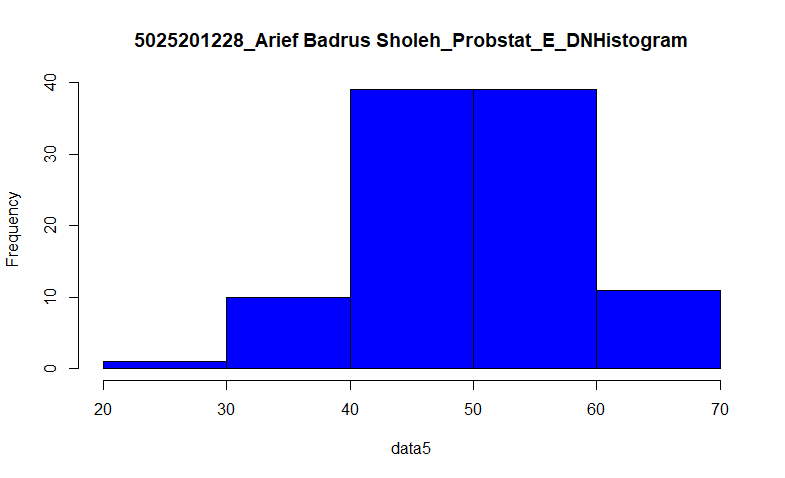
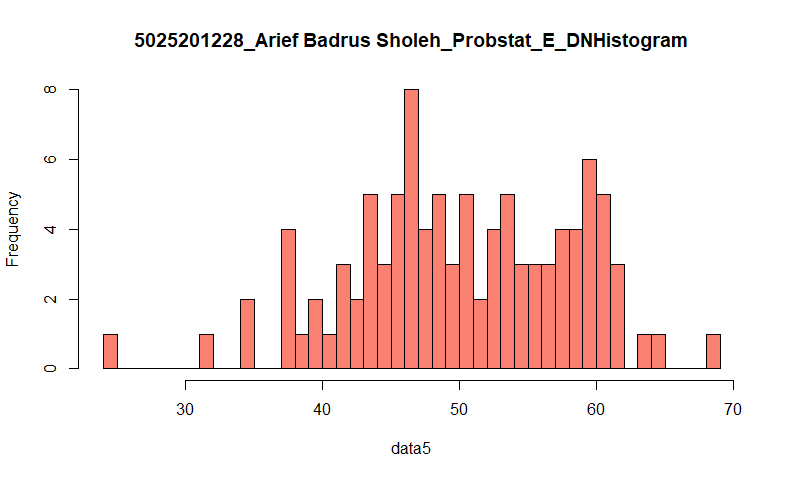
fix: z-score for soal6

diff --git a/README.md b/README.md
@@ -361,14 +361,15 @@ sd = 8
 data5 = rnorm(n, mean, sd) ;data5
 
 mean(data5)
-X1 = 49
-X2 = 50
 
-Z2 = (50-mean(data5))/sd(data5) ;Z2
-Z1 = 1-((49-mean(data5))/sd(data5)) ;Z1
+X1 = 50
+X2 = 51
+
+Z2 = (X2-mean(data5))/sd(data5) ;Z2
+Z1 = 1-((X1-mean(data5))/sd(data5)) ;Z1
 Z = Z1 +Z2 ;Z
 
-plot(data5, main = "Plot Data5", col = "blue", pch = 1)
+plot(data5, main = "Plot Data5", col = "salmon", pch = 1)
 ```
 
 ![6.a](screenshot/6.a.png)
@@ -378,7 +379,7 @@ plot(data5, main = "Plot Data5", col = "blue", pch = 1)
 **Hasil** : 
 - Z-score = 1.123113
 
-**Penjelasan** :
+**Penjelasan** : Karena default Z-score pada distribusi normal untuk `P(x<=X2)` sehingga untuk mendapatkan `P(X1<=x<=X2)` adalah dengan `P(x<=X2) + (1 - P(x<=X1))` karena `(1 - P(x<=X1)) = P(x>=X1)`. Kemudian menggunakan fungsi `plot()` untuk plot data generate randomnya dalam bentuk grafik
 
 
 ### 6.b
@@ -386,12 +387,12 @@ Generate Histogram dari Distribusi Normal dengan breaks 50
 
 ``` r
 ## b
-hist(data5, main = "5025201228_Arief Badrus Sholeh_Probstat_E_DNHistogram", breaks = 5, col = "blue")
+hist(data5, main = "5025201228_Arief Badrus Sholeh_Probstat_E_DNHistogram", breaks = 50, col = "salmon")
 ```
 
 ![6.b](/5025201228_Arief%20Badrus%20Sholeh_Probstat_E_DNHistogram.png)
 
-**Penjelasan** : Menggunkan fungsi `hist()` untuk meng-Generate histogram distribusi normal dengan `breaks = 5`.
+**Penjelasan** : Menggunkan fungsi `hist()` untuk meng-Generate histogram distribusi normal dengan `breaks = 50`.
 
 ### 6.c
 Nilai Varian (σ²) dari hasil generate random nilai Distribusi Normal.
@@ -409,3 +410,5 @@ var(data5)
 **Penjelasan** : Menggunakan fungsi `var()` untuk mencari nilai varian dari `data5`.
 
 ***
+
+ Sekian dan Terima Kasih
